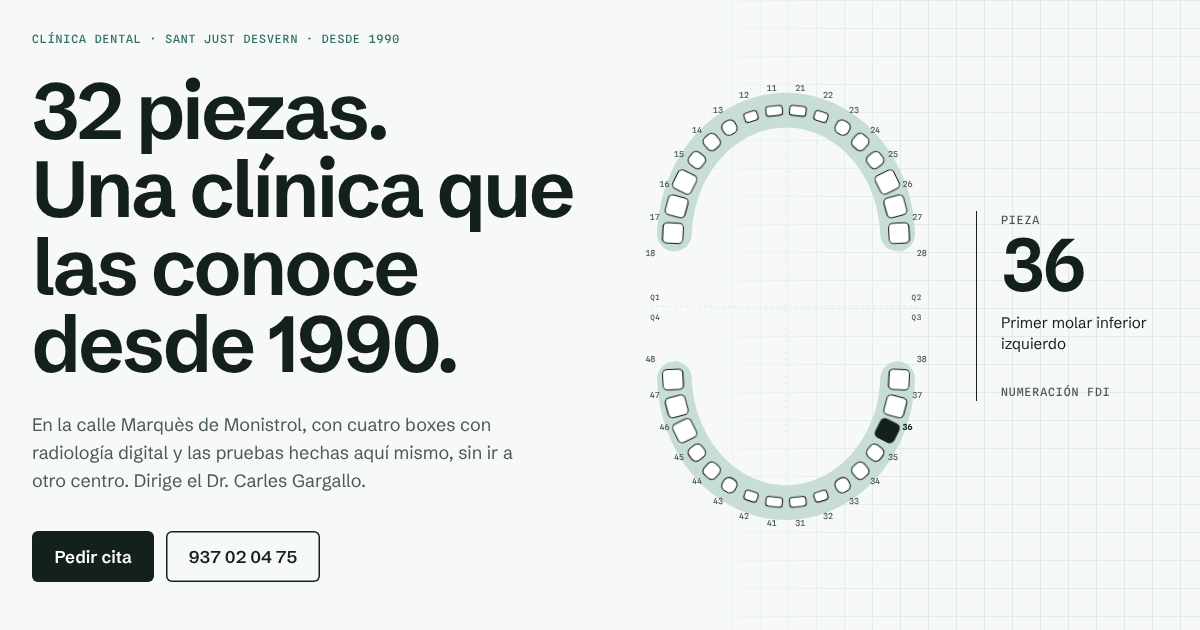
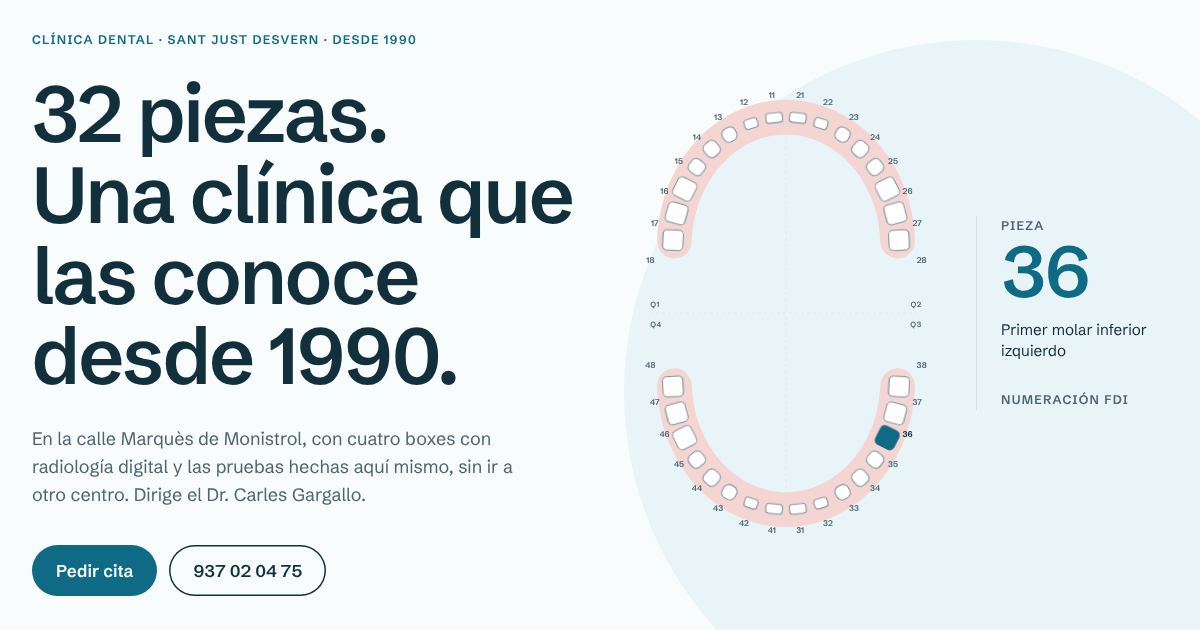
style: lighter dental palette (whites, water blues, real gum pink), rounded forms
- Drop red and dark sections; blue primary #0F6B85 (AA), blue-ink text
- Odontogram gums in gum pink, selection in brand blue
- Rounded buttons, cards and photos; labels in sans instead of mono
- Light contact section with card form; tooth favicon; README

Claude-Session: https://claude.ai/code/session_01QaVtpzoLGCxfdaoau7BgaH

diff --git a/src/styles/global.css b/src/styles/global.css
@@ -1,23 +1,25 @@
 @import "tailwindcss";
 @import "@fontsource-variable/schibsted-grotesk/wght.css";
-@import "@fontsource-variable/spline-sans-mono/wght.css";
 
 /* ——— Dental Clinic Sant Just · "Odontograma" ———
    Llenguatge clínic: el mapa de les 32 peces amb la numeració FDI que fan servir
    els dentistes. Blanc fred, verd aigua del vidre del terra de la clínica, tinta
    i el vermell del quadre del box com a senyal (no com a decoració). */
 @theme {
-  --color-blanc: #f7f9f8;
-  --color-vidre: #e3eeeb;      /* vidre del terra */
-  --color-vidre-2: #c9ddd8;
-  --color-linia: #d6e0dd;
-  --color-tinta: #14201e;
-  --color-tinta-2: #4a5a57;    /* AA sobre blanc */
-  --color-aigua: #2f6f66;      /* AA amb blanc */
-  --color-vermell: #c01e12;    /* quadre de la consulta */
+  /* Blanc clínic i blaus d'aigua: llum, neteja i calma */
+  --color-blanc: #f9fcfd;
+  --color-vidre: #e8f4f7;      /* aigua clara */
+  --color-vidre-2: #cfe6ec;
+  --color-linia: #dbe8ec;
+  --color-tinta: #12303b;      /* blau tinta (text) */
+  --color-tinta-2: #4b6470;    /* AA sobre blanc */
+  --color-aigua: #0f6b85;      /* blau principal, AA amb blanc */
+  --color-aigua-fosc: #0b5368;
+  --color-vermell: #0f6b85;    /* senyal = blau principal (sense vermell) */
+  --color-geniva: #f4d5d2;     /* geniva (odontograma) */
 
   --font-sans: "Schibsted Grotesk Variable", ui-sans-serif, system-ui, sans-serif;
-  --font-mono: "Spline Sans Mono Variable", ui-monospace, monospace;
+  --font-mono: "Schibsted Grotesk Variable", ui-sans-serif, sans-serif;
 }
 
 @layer base {
@@ -27,20 +29,21 @@
     *, *::before, *::after { animation-duration: 0.01ms !important; animation-iteration-count: 1 !important; transition-duration: 0.01ms !important; }
   }
   body { background: var(--color-blanc); color: var(--color-tinta); font-family: var(--font-sans); font-size: 1.0625rem; line-height: 1.6; -webkit-font-smoothing: antialiased; }
-  ::selection { background: var(--color-aigua); color: #fff; }
-  :focus-visible { outline: 2px solid var(--color-vermell); outline-offset: 3px; }
+  ::selection { background: var(--color-vidre-2); color: var(--color-tinta); }
+  :focus-visible { outline: 3px solid var(--color-aigua); outline-offset: 3px; }
 }
 
 @layer components {
   /* Titulars: grotesca compacta, sense cursives ni serifes decoratives */
-  .serif { font-family: var(--font-sans); font-weight: 650; letter-spacing: -0.035em; line-height: 0.98; }
-  .label { font-family: var(--font-mono); font-size: 0.72rem; font-weight: 500; letter-spacing: 0.08em; text-transform: uppercase; }
+  .serif { font-family: var(--font-sans); font-weight: 600; letter-spacing: -0.03em; line-height: 1.02; }
+  .label { font-size: 0.78rem; font-weight: 600; letter-spacing: 0.1em; text-transform: uppercase; }
   .mono { font-family: var(--font-mono); }
-  .marc { background: #fff; padding: 10px; border: 1px solid var(--color-linia); }
+  .marc { background: #fff; padding: 10px; border-radius: 22px; box-shadow: 0 20px 50px -30px rgb(18 48 59 / 0.35); }
+  .marc img { border-radius: 14px; }
   .cartela { font-size: 0.8125rem; line-height: 1.45; color: var(--color-tinta-2); }
-  .btn { display: inline-flex; align-items: center; justify-content: center; gap: 0.6rem; min-height: 3rem; padding: 0.75rem 1.4rem; border-radius: 6px; font-weight: 600; transition: background-color 180ms, color 180ms; }
-  .btn-vermell { background: var(--color-tinta); color: #fff; }
-  .btn-vermell:hover { background: var(--color-aigua); }
+  .btn { display: inline-flex; align-items: center; justify-content: center; gap: 0.6rem; min-height: 3rem; padding: 0.75rem 1.5rem; border-radius: 999px; font-weight: 600; transition: background-color 180ms, color 180ms; }
+  .btn-vermell { background: var(--color-aigua); color: #fff; }
+  .btn-vermell:hover { background: var(--color-aigua-fosc); }
   .btn-line { box-shadow: inset 0 0 0 1.5px currentColor; }
   .btn-line:hover { background: var(--color-tinta); color: var(--color-blanc); box-shadow: none; }
   .quadricula { background-image: linear-gradient(to right, var(--color-linia) 1px, transparent 1px), linear-gradient(to bottom, var(--color-linia) 1px, transparent 1px); background-size: 28px 28px; }

diff --git a/README.md b/README.md
@@ -12,9 +12,10 @@
 ## Identidad: "Odontograma"
 
 El elemento central es el lenguaje propio de los dentistas: el **odontograma**, el mapa de las 32 piezas con la numeración FDI (11–18, 21–28, 31–38, 41–48).
-- **Tipografía:** Schibsted Grotesk (titulares compactos, sin serifas decorativas) y Spline Sans Mono para números y rótulos. Autoalojadas.
-- **Color:** blanco frío, verde agua `#C9DDD8`/`#2F6F66` sacado del suelo de cristal de la clínica, tinta `#14201E` y el rojo del cuadro del box (`#C01E12`) solo como señal en el odontograma.
-- **Logotipo provisional:** la etiqueta "11·21", los dos incisivos centrales, como placa monoespaciada. A sustituir si la clínica tiene logo.
+- **Tipografía:** Schibsted Grotesk para todo (titulares, texto y rótulos), autoalojada.
+- **Formas:** botones redondeados, tarjetas y fotos con esquinas suaves, y secciones claras, para que el conjunto se vea limpio y tranquilo.
+- **Color:** paleta clínica y luminosa: blanco `#F9FCFD`, agua clara `#E8F4F7`, azul principal `#0F6B85` (cumple AA con blanco) y texto en azul tinta `#12303B`. Las encías del odontograma en rosa real `#F4D5D2`. Sin rojo, que en salud evoca sangre o alarma. La clínica no tiene colores de marca publicados.
+- **Logotipo provisional:** la etiqueta "11·21" (los dos incisivos centrales) en una píldora azul. A sustituir si la clínica tiene logo.
 - **Fotos:** las de la clínica, a tamaño moderado y con cartela (son de 650 px).
 
 ## Funcionalidades
